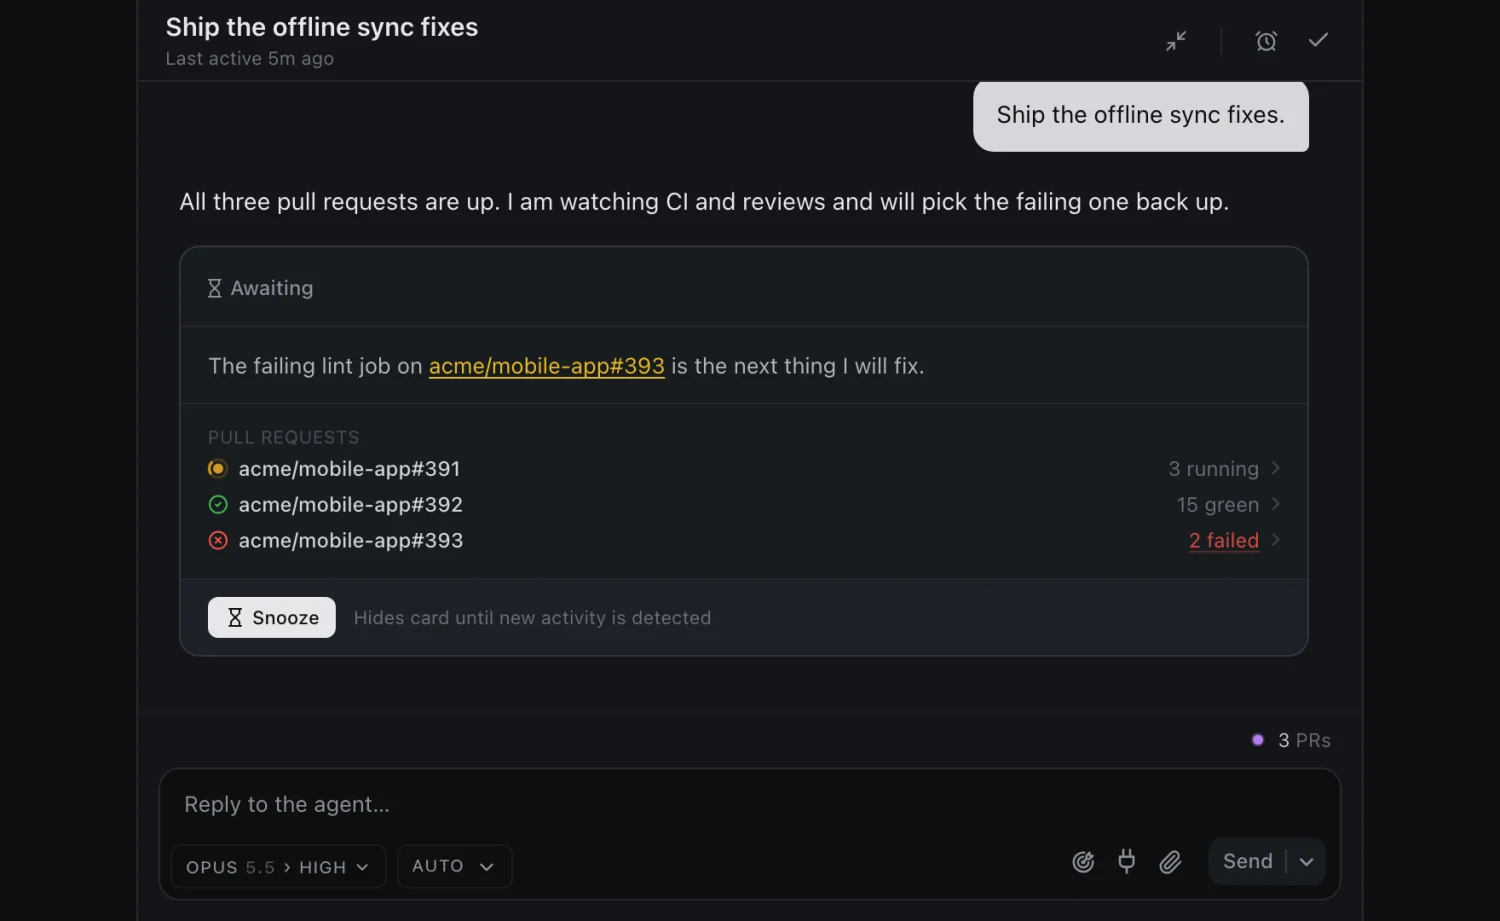
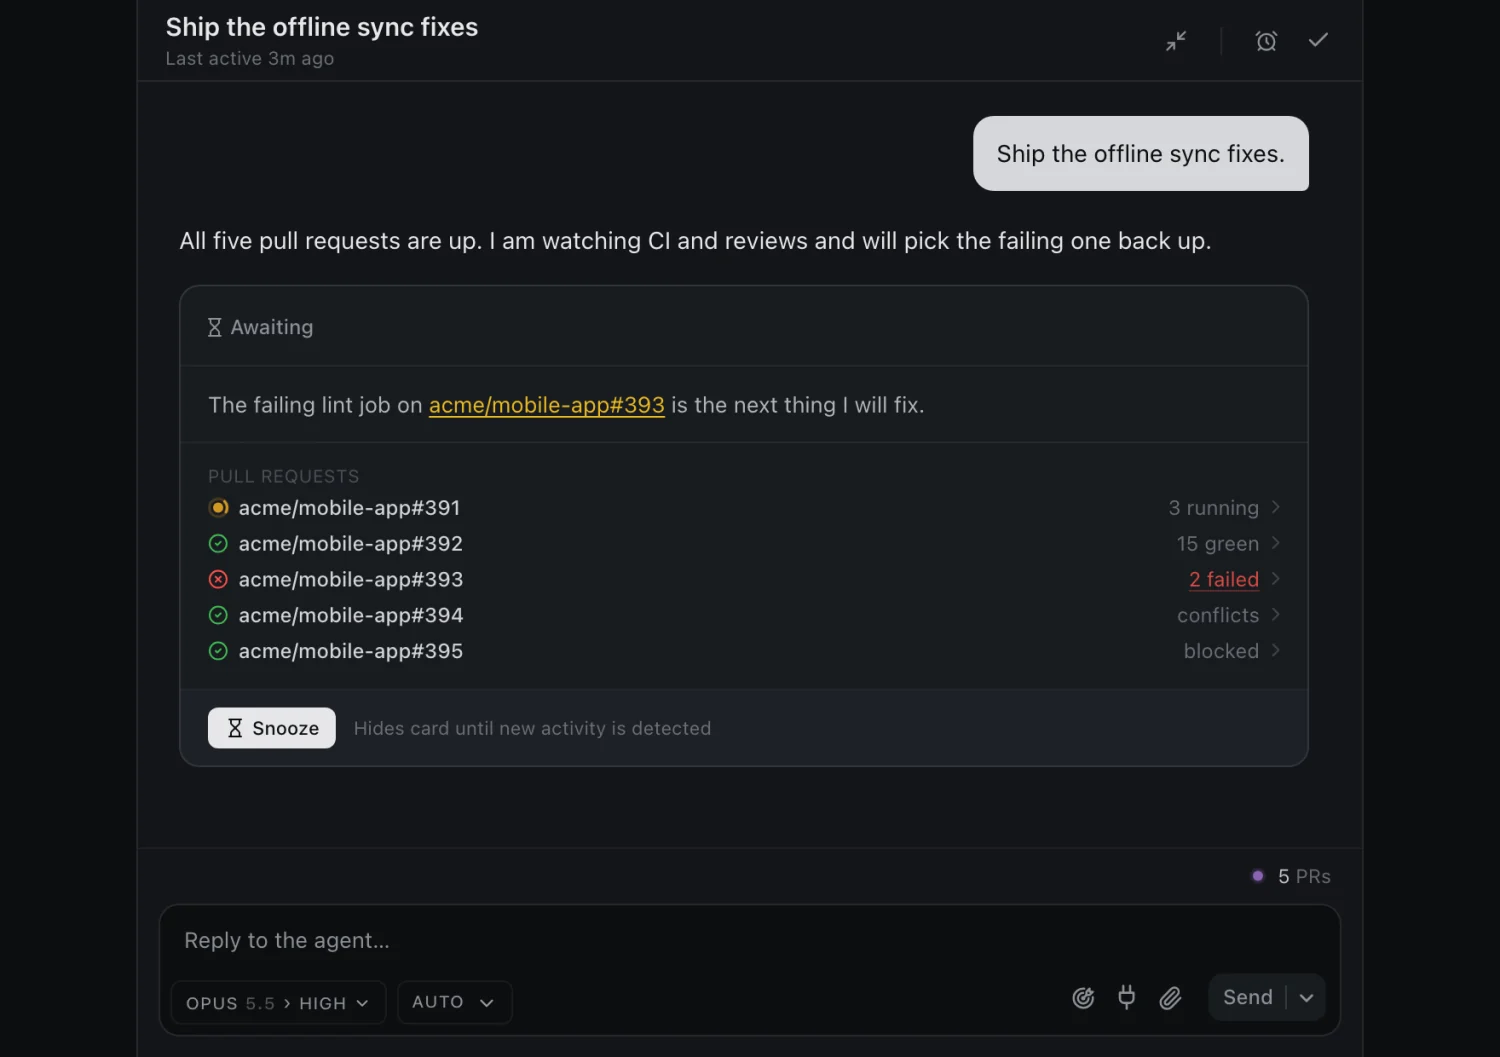
feat(site): show the pull request watcher's whole life, issue watching, hovercards, edited files and the read-only sign-in

diff --git a/site/index.html b/site/index.html
@@ -167,10 +167,40 @@
               <div class="row-shot"><img src="/img/f-subagent.webp?v=fdea2854" width="1500" height="1149" loading="lazy" decoding="async" alt="A sub-agent&#x27;s live transcript over the dimmed board, with a box to steer it." /></div>
             </article>
             <article class="feature row flip">
-              <div class="row-text"><h3>Pull request and CI watching</h3><p>A thread can watch a pull request and rest. The card shows each PR's checks, and the agent picks the work back up when CI finishes or a review lands.</p></div>
-              <div class="row-shot thread"><img src="/img/f-watch.webp?v=0a101a19" width="1500" height="920" loading="lazy" decoding="async" alt="A thread watching three pull requests: one running, one green, one with two failed checks." /></div>
+              <div class="row-text"><h3>Threads from GitHub</h3><p>Browse issues and pull requests from the composer, sorted by recency or reactions. A badge marks issues that already have a PR. Shift-click a range and start one thread for each, with a prompt you can edit.</p></div>
+              <div class="row-shot"><img src="/img/f-github.webp?v=b7817dae" width="1500" height="1117" loading="lazy" decoding="async" alt="The GitHub picker over the dimmed board, listing open issues with three of them checked and badges on the two that already have a pull request." /></div>
             </article>
             <article class="feature row">
+              <div class="row-text"><h3>A pull request&#x27;s whole life</h3><p>A thread can watch a PR and rest, for up to a year. CI results, reviews, comments, label changes, conflicts, and a drop from the merge queue each wake the agent. The watch ends when the PR merges or closes.</p></div>
+              <div class="row-shot thread"><img src="/img/f-pr-life.webp?v=e986c858" width="1500" height="1086" loading="lazy" decoding="async" alt="A thread following one pull request: CI failed, the agent pushed a fix, CI passed, a change request arrived, a conflict appeared, and the pull request merged." /></div>
+            </article>
+            <article class="feature row flip">
+              <div class="row-text"><h3>Checks and merge state on the card</h3><p>Each watched PR gets a row with its check counts and whether it can merge. A failed count links to the failing checks on GitHub.</p></div>
+              <div class="row-shot thread"><img src="/img/f-watch.webp?v=d6687d35" width="1500" height="1057" loading="lazy" decoding="async" alt="A thread watching five pull requests, reading 3 running, 15 green, 2 failed, conflicts and blocked." /></div>
+            </article>
+            <article class="feature row">
+              <div class="row-text"><h3>Issue watching</h3><p>A thread can also rest on an issue, waiting for a reporter&#x27;s reply or a maintainer&#x27;s triage. A comment, a label, an assignee, or the close wakes the agent.</p></div>
+              <div class="row-shot thread"><img src="/img/f-issue.webp?v=50ee6879" width="1500" height="1091" loading="lazy" decoding="async" alt="A thread resting on three issues, with each title, its comment count, and one closed." /></div>
+            </article>
+            <article class="feature row flip">
+              <div class="row-text"><h3>Snooze until GitHub has news</h3><p>Snooze a card that is waiting on a PR and it leaves the queue. It comes back when the PR has new activity.</p></div>
+              <div class="row-shot"><img src="/img/f-snooze-pr.webp?v=9a77492c" width="1398" height="638" loading="lazy" decoding="async" alt="A card listing five pull requests, with the pointer on a Snooze button labeled Hides card until new activity is detected." /></div>
+            </article>
+            <article class="feature row">
+              <div class="row-text"><h3>GitHub hovercards</h3><p>Hover an issue, PR, or commit reference anywhere in a thread to see its state, labels, author, diffstat, and an excerpt. Frizz fetches them ahead of time, so the card opens at once.</p></div>
+              <div class="row-shot thread"><img src="/img/f-hovercard.webp?v=7ea9b6f3" width="1500" height="887" loading="lazy" decoding="async" alt="A card open over a pull request link in a transcript, with its title, Open state, lines added and removed, an excerpt, labels and author." /></div>
+            </article>
+            <article class="feature row flip">
+              <div class="row-text"><h3>Edited files on the thread</h3><p>The rail beside a full-screen thread lists the files it edited, with lines added and removed. Anything git ignores stays out, so build output doesn&#x27;t bury the real changes.</p></div>
+              <div class="row-shot"><img src="/img/f-edited.webp?v=09e70427" width="1500" height="666" loading="lazy" decoding="async" alt="A thread beside a rail of five edited files in a folder tree, each with counts of lines added and removed." /></div>
+            </article>
+            <article class="feature row">
+              <div class="row-text"><h3>Read-only GitHub sign-in</h3><p>Frizz signs in to GitHub with its own app, which can only read. The watchers keep working while your screen is locked, and they can&#x27;t push or merge anything.</p>
+                <p class="fine">The one exception is a comment on a commit, which GitHub allows with code access.</p>
+              </div>
+              <div class="row-shot narrow"><img src="/img/f-signed-in.webp?v=b7504663" width="1102" height="680" loading="lazy" decoding="async" alt="Settings with a GitHub field and its help open, saying the sign-in can read code, issues, pull requests and checks, and that the only thing it can do beyond reading is comment on a commit." /></div>
+            </article>
+            <article class="feature row flip">
               <div class="row-text"><h3>Monitors that outlive the session</h3><p>An agent can hand Frizz a script and stop. The Frizz server keeps it running while the session sleeps, and each line it prints wakes the agent. It runs unchecked, so it needs a thread in Bypass.</p>
                 <svg class="lanes" viewBox="0 0 420 96" role="img" aria-label="Two timelines. The agent's session runs, sleeps and wakes twice. The monitor runs the whole time, and each line it prints wakes the session.">
                   <text x="0" y="12">Agent session</text>
@@ -185,15 +215,15 @@
               </div>
               <div class="row-shot thread"><img src="/img/f-monitor.webp?v=4aae4cb8" width="1500" height="1023" loading="lazy" decoding="async" alt="A resting thread: a line in the transcript shows a monitor printed one line, the agent fixed the error, and its card lists the monitor as still running." /></div>
             </article>
-            <article class="feature row flip">
+            <article class="feature row">
               <div class="row-text"><h3>Goals</h3><p>Frizz re-sends a goal every time the agent stops, on a clock you set, or both. It runs until you switch it off or the agent says it is finished.</p></div>
               <div class="row-shot thread"><img src="/img/f-goal.webp?v=33519f75" width="1500" height="1040" loading="lazy" decoding="async" alt="The goal panel above a reply box: keep going until the test suite is green, with stop hook and heartbeat switched on." /></div>
             </article>
-            <article class="feature row">
+            <article class="feature row flip">
               <div class="row-text"><h3>Steering</h3><p>Send while an agent works and it reads your message at its next step. Or send it to the queue, where each message gets its own turn.</p></div>
               <div class="row-shot thread"><img src="/img/f-steer.webp?v=b8c56820" width="1500" height="801" loading="lazy" decoding="async" alt="A running thread with a message typed and the menu beside Send open, offering Send as steer and Send to queue." /></div>
             </article>
-            <article class="feature row flip">
+            <article class="feature row">
               <div class="row-text"><h3>Messages between threads</h3><p>A worker can send a message to another thread, even in another project. It lands as one line naming the sender, with a link back.</p></div>
               <div class="row-shot thread"><img src="/img/f-peer.webp?v=2d37e6bd" width="1500" height="1166" loading="lazy" decoding="async" alt="A message from another thread, expanded in a transcript, and the agent acting on it." /></div>
             </article>
@@ -226,10 +256,6 @@
             <article class="feature row">
               <div class="row-text"><h3>Claude Code and Codex, side by side</h3><p>Pick the agent, model, and effort for each new thread. Both can run on the same repo at once.</p></div>
               <div class="row-shot narrow"><img src="/img/f-picker.webp?v=a276873f" width="1284" height="1040" loading="lazy" decoding="async" alt="The model picker open under the new thread box, with Claude Code models and Codex models each listed by effort." /></div>
-            </article>
-            <article class="feature row flip">
-              <div class="row-text"><h3>Threads from GitHub</h3><p>Browse issues and pull requests from the composer, select a range, and start one thread for each.</p></div>
-              <div class="row-shot"><img src="/img/f-github.webp?v=c6999040" width="1500" height="1116" loading="lazy" decoding="async" alt="The GitHub picker over the dimmed board, listing open issues with three of them checked." /></div>
             </article>
           </div>
         </div>

diff --git a/site/README.md b/site/README.md
@@ -36,7 +36,7 @@ Linking also writes `site/.env.local`, which holds a Vercel token. Delete it aft
 
 ## Regenerating the screenshots
 
-Every shot is the real app in a real browser, on a disposable stack with made-up projects and simulated workers. The GitHub picker's rows are stubbed, because a sandbox has no GitHub sign-in.
+Every shot is the real app in a real browser, on a disposable stack with made-up projects and simulated workers. The GitHub picker's rows, the hovercard's data, and the signed-in Settings row are stubbed, because a sandbox has no GitHub sign-in.
 
 ```sh
 # Boot, in its own background shell. --prime and the five projects under <home>/work are what the rail shows.
